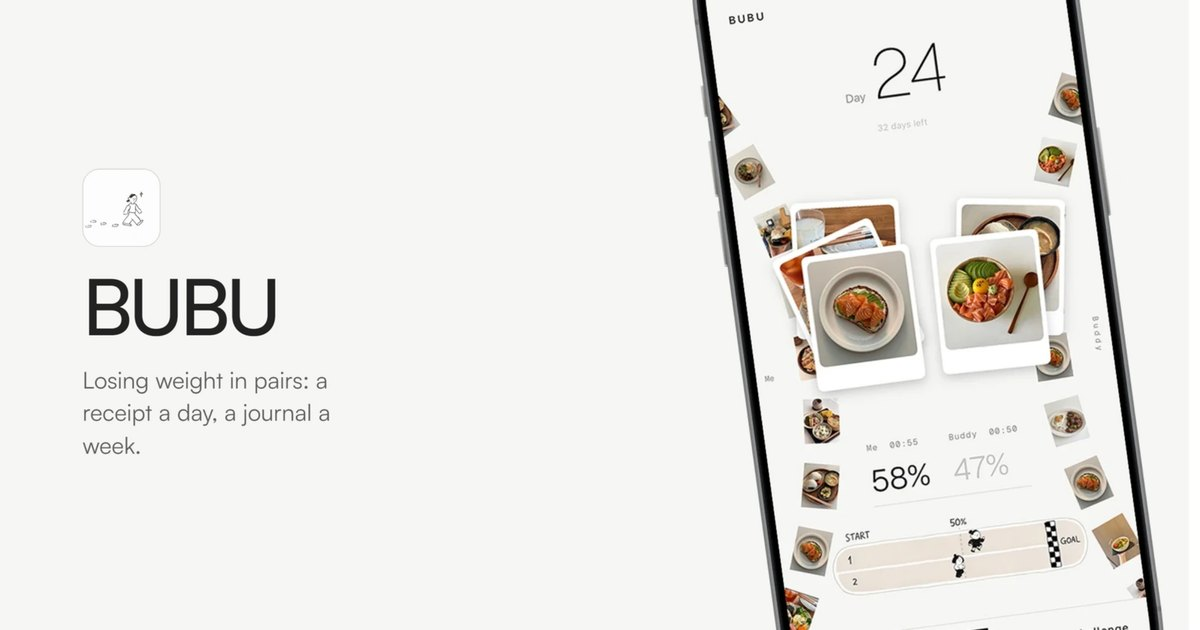
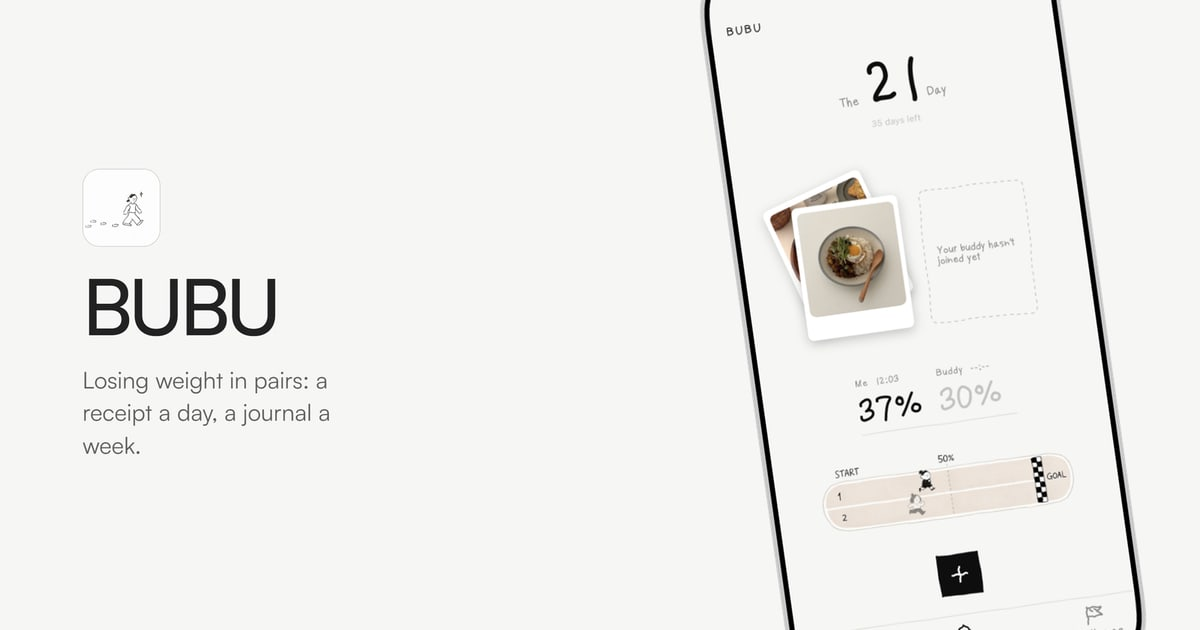
BUBU shows the build as it is now, each language in its own screens
The app's interface was redrawn, so the strip of screens is replaced:
28 captures in place of 19, from sign-up through the paywall, in the
order the build numbers them. Each is captured twice, off the English
build and the Chinese one, and the reader gets the set in their own
language, the way the recordings already work. The captions and the
heading's count follow the new set.

The phone is the new upright render. In the case study's hero it stands
as it is, held narrower than the slot so it does not outgrow the copy
beside it. On the visual home's stage it leans 8 degrees, the lean the
old render had baked in, and takes the same footprint. The cover and the
share card are rebuilt around it at that lean; their title block is cut
from the old cover and kept in pic/ so the build can lay it down again.

scripts/bubu-media-build.cjs exports all of it. The simulator captures
it reads from are 28 MB of PNG and stay out of the repo.

diff --git a/app/project/bubu/page.jsx b/app/project/bubu/page.jsx
@@ -60,28 +60,42 @@ const recording = (name, locale) => {
 }
 
 /* The full build, in the order a first-time user meets it. Captions are
-   in `copy.screens.rail`, one per entry. */
+   in `copy.screens.rail`, one per entry. Every screen is captured twice,
+   off the English build and the Chinese one, like the recordings above,
+   and the reader gets the set in their own language: the files are
+   /public/bubu/screens/<locale>/<name>.webp, exported from the simulator
+   captures by scripts/bubu-media-build.cjs, which keeps their names. */
 const rail = [
-  screen("signup"),
-  screen("how-to-log"),
-  screen("set-goal"),
-  screen("invite"),
-  screen("matched"),
-  screen("home-duo"),
-  screen("receipt-duo"),
-  screen("receipt-mine"),
-  screen("journal-cover"),
-  screen("journal-mine"),
-  screen("journal-spread"),
-  screen("challenge-progress"),
-  screen("challenge-rules"),
-  screen("goal-reached"),
-  screen("home-solo"),
-  screen("journal-solo"),
-  screen("challenge-solo"),
-  screen("settings"),
-  screen("rename")
+  "01-welcome-register",
+  "02-welcome-signin",
+  "03-setup-name",
+  "04-setup-body",
+  "05-setup-target",
+  "06-setup-weeks",
+  "07-setup-mode",
+  "08-setup-ready",
+  "09-home-duo",
+  "10-record-choice",
+  "11-weight",
+  "12-exercise",
+  "13-capture",
+  "14-receipts",
+  "15-my-receipt",
+  "16-journal",
+  "17-journal-overview",
+  "18-challenge-progress",
+  "19-challenge-rules",
+  "20-buddy-panel",
+  "21-settings",
+  "22-settings-language",
+  "23-rename",
+  "24-record-mode",
+  "25-plus-on",
+  "27-home-solo",
+  "28-journal-locked",
+  "29-paywall"
 ]
+const railScreen = (name, locale) => screen(`${locale === "zh" ? "zh" : "en"}/${name}`)
 
 /* Five loops, one pen. Where each one runs is in `copy.cast.clips`.
    All five are black line work on an alpha channel, so the paper behind
@@ -113,7 +127,7 @@ const copy = {
       statusLabel: "Status",
       status: "Built · one round of interviews · TestFlight next",
       action: "How it works",
-      heroAlt: "The BUBU home screen on an iPhone: day 24, both players' progress, and the meals they logged today"
+      heroAlt: "The BUBU home screen on an iPhone: day 21, the meals logged today beside an empty frame for a buddy who has not joined yet, and both runners on the track"
     },
     why: {
       kicker: "01 / Why it exists",
@@ -251,28 +265,37 @@ const copy = {
     },
     screens: {
       kicker: "06 / Every screen",
-      heading: "All 19 screens, from sign-up to settings.",
+      heading: "All 28 screens, from sign-up to the paywall.",
       lead: "These screens were captured in an iPhone 17 simulator and follow the order of a first-time experience. Drag the strip to browse them.",
       rail: [
         "Sign up",
+        "Sign in",
+        "Pick a name",
+        "Height and weight",
+        "Target weight",
+        "Plan length",
         "Solo or paired",
-        "Set the goal",
-        "Invite a buddy",
-        "Matched",
+        "Ready",
         "Home · paired",
+        "What to record",
+        "Log weight",
+        "Log exercise",
+        "Photograph a meal",
         "Today's receipt · both",
         "Today's receipt · mine",
-        "Journal · cover",
         "Journal · my week",
         "Journal · the spread",
         "Challenge · progress",
         "Challenge · rules",
-        "Goal reached",
-        "Home · solo",
-        "Journal · solo",
-        "Challenge · solo",
+        "Matched",
         "Settings",
-        "Rename"
+        "Settings · language",
+        "Rename",
+        "Switch mode",
+        "BUBU Plus · active",
+        "Home · solo",
+        "Journal · locked pages",
+        "BUBU Plus · paywall"
       ]
     },
     shipping: {
@@ -317,7 +340,7 @@ const copy = {
       statusLabel: "状态",
       status: "已完成开发 · 做了一轮访谈 · 接下来是 TestFlight",
       action: "它怎么运作",
-      heroAlt: "iPhone 上的 BUBU 首页：第 24 天、两个人的进度，以及今天各自记的餐"
+      heroAlt: "iPhone 上的 BUBU 首页：第 21 天，今天记下的餐，旁边是留给还没加入的搭子的空框，以及跑道上的两个人"
     },
     why: {
       kicker: "01 / 它为什么存在",
@@ -455,28 +478,37 @@ const copy = {
     },
     screens: {
       kicker: "06 / 全部界面",
-      heading: "从注册到设置，共 19 个界面。",
+      heading: "从注册到订阅，共 28 个界面。",
       lead: "这些画面来自 iPhone 17 模拟器，并按照第一次使用的顺序排列。可以横向拖动查看。",
       rail: [
         "注册",
+        "登录",
+        "起个名字",
+        "身高和体重",
+        "目标体重",
+        "挑战时长",
         "单人还是双人",
-        "设定目标",
-        "邀请搭子",
-        "组队成功",
+        "准备好了",
         "首页 · 双人",
+        "记录什么",
+        "记体重",
+        "记运动",
+        "拍下一餐",
         "今日小票 · 双人",
         "今日小票 · 我的",
-        "手账本 · 封面",
         "手账本 · 我的一周",
         "手账本 · 摊开",
         "挑战 · 进度",
         "挑战 · 规则",
-        "目标达成",
-        "首页 · 单人",
-        "手账本 · 单人",
-        "挑战 · 单人",
+        "组队成功",
         "设置",
-        "改名"
+        "设置 · 语言",
+        "改名",
+        "切换记录方式",
+        "BUBU Plus · 已开通",
+        "首页 · 单人",
+        "手账本 · 未解锁的页",
+        "BUBU Plus · 订阅"
       ]
     },
     shipping: {
@@ -624,7 +656,7 @@ export default function BubuPage({ track = "uiux", locale = "en" }) {
             </div>
 
             <div className={`${styles.heroVisual} ${styles.reveal}`} style={{ animationDelay: "160ms" }}>
-              <img src="/bubu/phone.webp" alt={t.hero.heroAlt} width="773" height="1328" fetchPriority="high" />
+              <img src="/bubu/phone.webp" alt={t.hero.heroAlt} width="424" height="896" fetchPriority="high" />
             </div>
           </header>
 
@@ -802,9 +834,9 @@ export default function BubuPage({ track = "uiux", locale = "en" }) {
               <p className={styles.sectionLead}>{t.screens.lead}</p>
             </div>
             <ul className={styles.rail}>
-              {rail.map((src, index) => (
-                <li className={styles.railItem} key={src}>
-                  <img src={src} alt={t.screens.rail[index]} width="804" height="1748" loading="lazy" decoding="async" />
+              {rail.map((name, index) => (
+                <li className={styles.railItem} key={name}>
+                  <img src={railScreen(name, locale)} alt={t.screens.rail[index]} width="804" height="1748" loading="lazy" decoding="async" />
                   <span>{String(index + 1).padStart(2, "0")} · {t.screens.rail[index]}</span>
                 </li>
               ))}

diff --git a/app/project/bubu/page.module.css b/app/project/bubu/page.module.css
@@ -56,8 +56,10 @@
 .action:hover { background: #3e3e3e; }
 
 /* The device render the home page's card already uses for BUBU, in the
-   slot the other case studies give their hero picture. */
-.heroVisual { grid-area: visual; min-width: 0; width: min(100%, 440px); align-self: start; justify-self: start; }
+   slot the other case studies give their hero picture. It is a phone
+   standing upright, so it is held narrower than that slot: at the slot's
+   full width it would stand taller than the copy beside it. */
+.heroVisual { grid-area: visual; min-width: 0; width: min(100%, 330px); align-self: start; justify-self: start; }
 .heroVisual img { display: block; width: 100%; height: auto; }
 
 .reveal { opacity: 0; transform: translateY(24px); animation: rise 780ms cubic-bezier(0.16, 1, 0.3, 1) forwards; }
@@ -350,7 +352,7 @@
   .heroCopy { display: flex; flex-direction: column; gap: 26px; grid-area: copy; }
   .heroFacts { order: 1; }
   .hero .actions { order: 2; }
-  .heroVisual { width: min(100%, 440px); justify-self: end; align-self: center; }
+  .heroVisual { width: min(100%, 330px); justify-self: center; align-self: center; }
 }
 
 @media (max-width: 699px) {
@@ -358,7 +360,7 @@
   .heroCopy { gap: 24px; }
   .hero h1 { font-size: clamp(2.25rem, 9.5vw, 3.3rem); }
   .heroFacts div { grid-template-columns: 1fr; gap: 6px; }
-  .heroVisual { width: 100%; }
+  .heroVisual { width: min(76%, 300px); justify-self: center; }
   .caseSection + .caseSection { padding-top: 36px; }
   /* The strip keeps its own scroll but the screens get bigger, since a
      phone at 146px on a phone is smaller than the thing it is a picture

diff --git a/app/home-riso/FeaturedStacks.jsx b/app/home-riso/FeaturedStacks.jsx
@@ -167,7 +167,7 @@ const stacks = {
       { kind: "cut", src: "/bubu/book.webp", x: 29, y: 7, w: 70, r: 0, dx: 16, dy: -4, dr: 3, depth: 0.5, z: 1 },
       { kind: "cut", src: "/bubu/polaroid-salad.webp", x: 55, y: 0, w: 16, r: 0, dx: -6, dy: -20, dr: -8, ds: 1.06, depth: 1, z: 2 },
       { kind: "cut", src: "/bubu/polaroid-coffee.webp", x: 66, y: 8, w: 17, r: 0, dx: 14, dy: -16, dr: 8, ds: 1.06, depth: 1.1, z: 2 },
-      { kind: "cut", src: "/bubu/phone.webp", x: 1, y: 3, w: 48, r: 0, dx: -14, dy: -6, dr: -4, ds: 1.02, depth: 0.8, z: 3 },
+      { kind: "cut", src: "/bubu/phone.webp", x: 6, y: 5, w: 37.5, r: -8, dx: -14, dy: -6, dr: -12, ds: 1.02, depth: 0.8, z: 3 },
       { kind: "app", src: "/bubu/icon.webp", x: 60, y: 70, w: 21, r: 4, dx: 12, dy: 10, dr: 10, ds: 1.08, depth: 1.2, z: 5 },
       { kind: "chip", text: { en: "Home · a race for two", zh: "首页 · 两人赛跑" }, x: 2, y: 0, r: -4, dx: -10, dy: -10, dr: -7, depth: 0.5, z: 4 },
       { kind: "chip", text: { en: "Weekly journal · me & my buddy", zh: "周记手账 · 我与搭子" }, x: 34, y: 58, r: 3, dx: 12, dy: 10, dr: 6, depth: 0.5, z: 4 }
